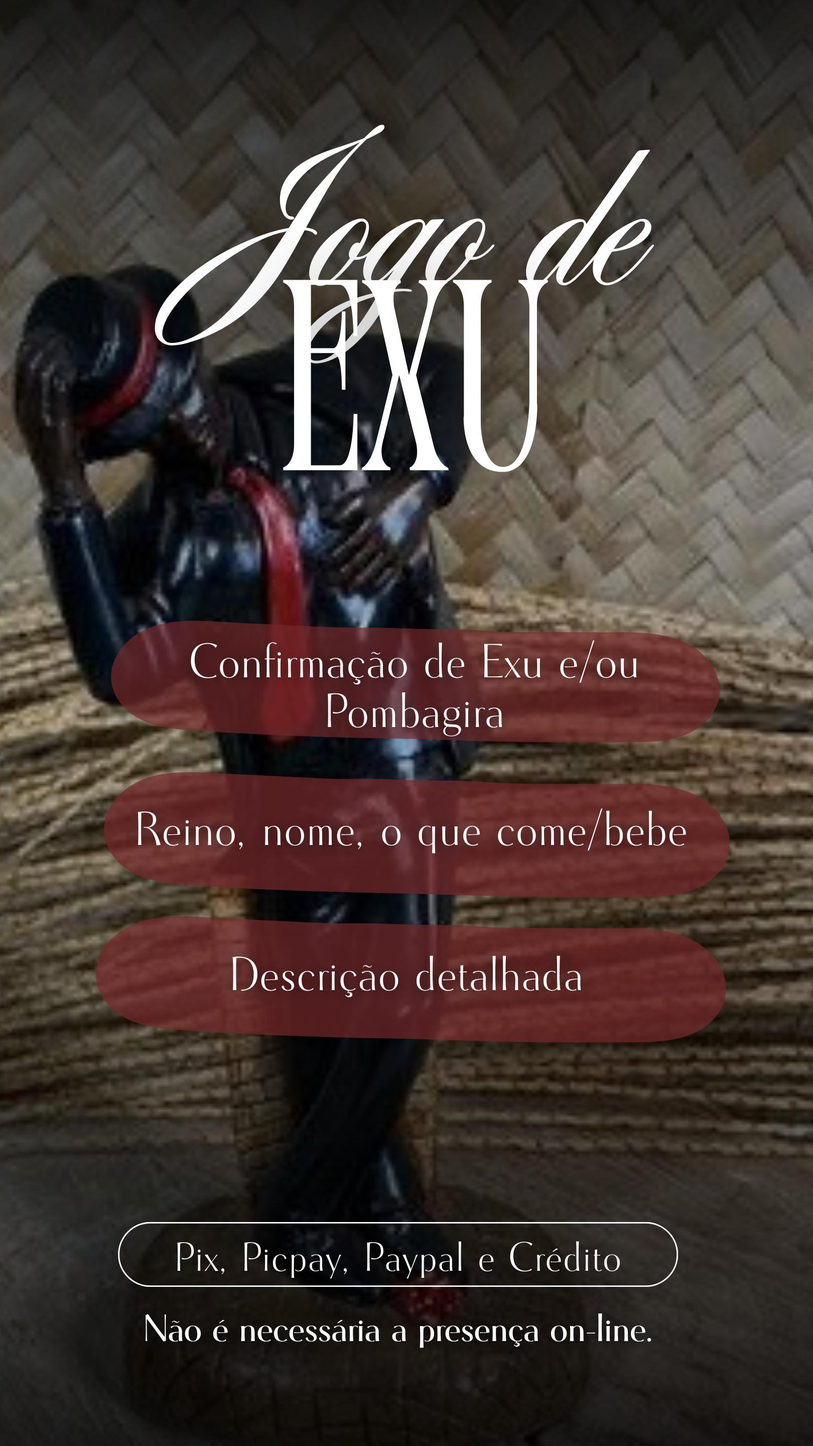
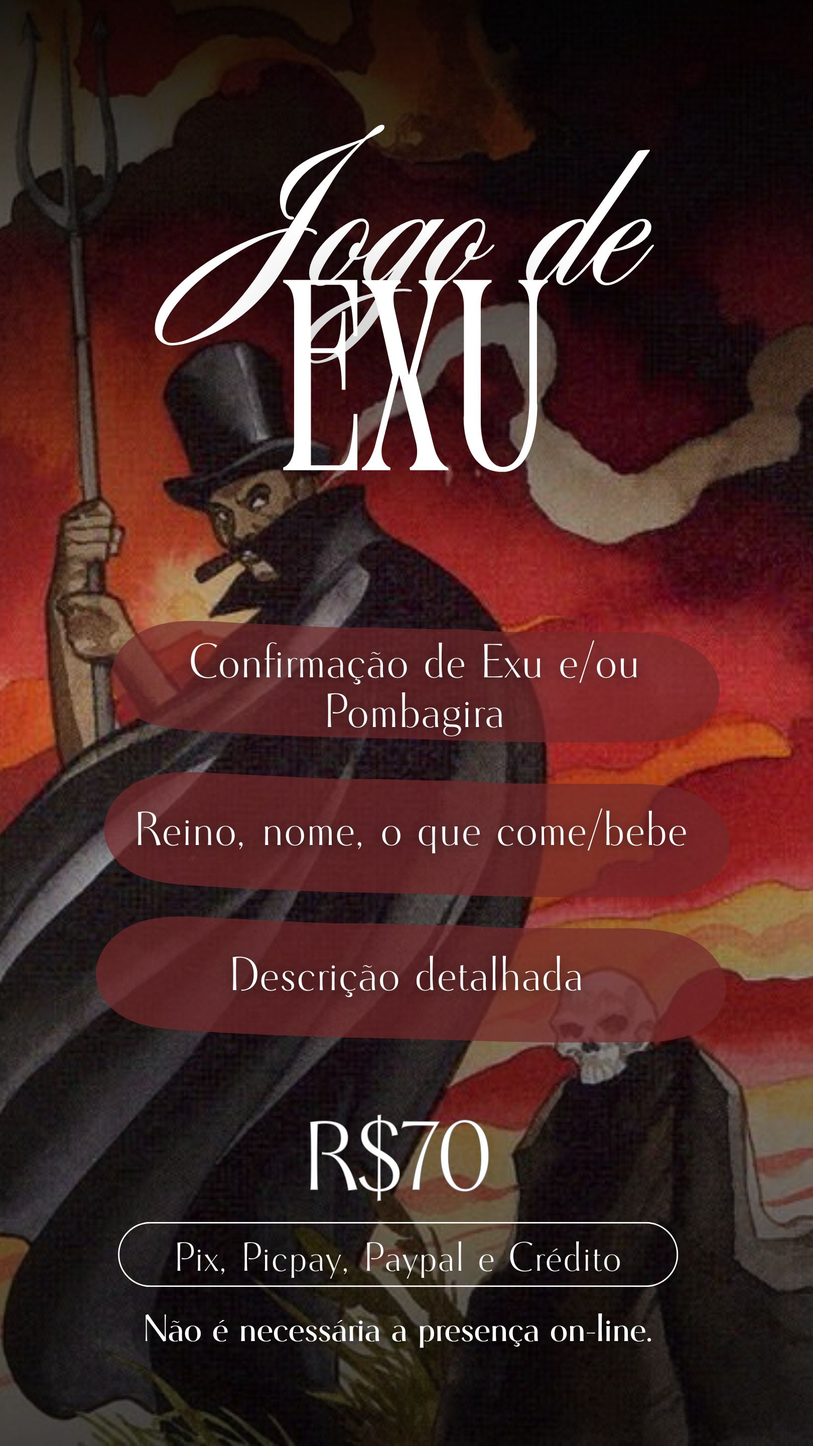
excluindo imagens antigas e add novas + pequenos ajustes.

diff --git a/index.html b/index.html
@@ -84,14 +84,14 @@
             <a href="https://wa.me/5527998528483?text=Olá,%20gostaria%20de%20agendar%20a%20tenda%20cigana%20avulsa" target="_blank" class="card-slim">
                 <div class="img-wrapper"><img src="images/cocar6.jpg" alt="Tenda Cigana Avulsa"></div>
                 <div class="card-body-slim">
-                    <div class="card-title-slim">Tenda Cigana Avulsa</div>
+                    <div class="card-title-slim">Mesa Cigana Avulsa</div>
                     <span class="btn-agendar">Agendar</span>
                 </div>
             </a>
             <a href="https://wa.me/5527998528483?text=Olá,%20gostaria%20de%20agendar%20a%20tenda%20cigana%20completa" target="_blank" class="card-slim">
                 <div class="img-wrapper"><img src="images/cocar7.jpg" alt="Tenda Cigana Completa"></div>
                 <div class="card-body-slim">
-                    <div class="card-title-slim">Tenda Cigana Completa</div>
+                    <div class="card-title-slim">Mesa Cigana Completa</div>
                     <span class="btn-agendar">Agendar</span>
                 </div>
             </a>
@@ -170,38 +170,6 @@
         © 2026 Cocar Sagrado
     </footer>
 
-    <script>
-        function showSection(id, btnElement) {
-            document.querySelectorAll("section").forEach(sec => sec.classList.remove("active"));
-            document.querySelectorAll(".nav-bar button").forEach(btn => btn.classList.remove("active-btn"));
-            
-            document.getElementById(id).classList.add("active");
-            if(btnElement) {
-                btnElement.classList.add("active-btn");
-            }
-            
-            window.scrollTo({
-                top: document.querySelector('header').offsetHeight,
-                behavior: 'smooth'
-            });
-        }
-        function openCategory(evt, categoryName) {
-    // Esconde todas as categorias
-    var contents = document.getElementsByClassName("category-content");
-    for (var i = 0; i < contents.length; i++) {
-        contents[i].classList.remove("active-category");
-    }
-
-    // Remove a classe 'active-tab' de todos os botões
-    var tabs = document.getElementsByClassName("tab-btn");
-    for (var i = 0; i < tabs.length; i++) {
-        tabs[i].classList.remove("active-tab");
-    }
-
-    // Mostra a categoria atual e adiciona a classe 'active-tab' ao botão clicado
-    document.getElementById(categoryName).classList.add("active-category");
-    evt.currentTarget.classList.add("active-tab");
-}
-    </script>
+    <script src="script.js"></script>
 </body>
 </html>

diff --git a/script.js b/script.js
@@ -1,0 +1,32 @@
+function showSection(id, btnElement) {
+    document.querySelectorAll("section").forEach(sec => sec.classList.remove("active"));
+    document.querySelectorAll(".nav-bar button").forEach(btn => btn.classList.remove("active-btn"));
+    
+    document.getElementById(id).classList.add("active");
+    if(btnElement) {
+        btnElement.classList.add("active-btn");
+    }
+    
+    window.scrollTo({
+        top: document.querySelector('header').offsetHeight,
+        behavior: 'smooth'
+    });
+}
+
+function openCategory(evt, categoryName) {
+    // Esconde todas as categorias
+    var contents = document.getElementsByClassName("category-content");
+    for (var i = 0; i < contents.length; i++) {
+        contents[i].classList.remove("active-category");
+    }
+
+    // Remove a classe 'active-tab' de todos os botões
+    var tabs = document.getElementsByClassName("tab-btn");
+    for (var i = 0; i < tabs.length; i++) {
+        tabs[i].classList.remove("active-tab");
+    }
+
+    // Mostra a categoria atual e adiciona a classe 'active-tab' ao botão clicado
+    document.getElementById(categoryName).classList.add("active-category");
+    evt.currentTarget.classList.add("active-tab");
+}
